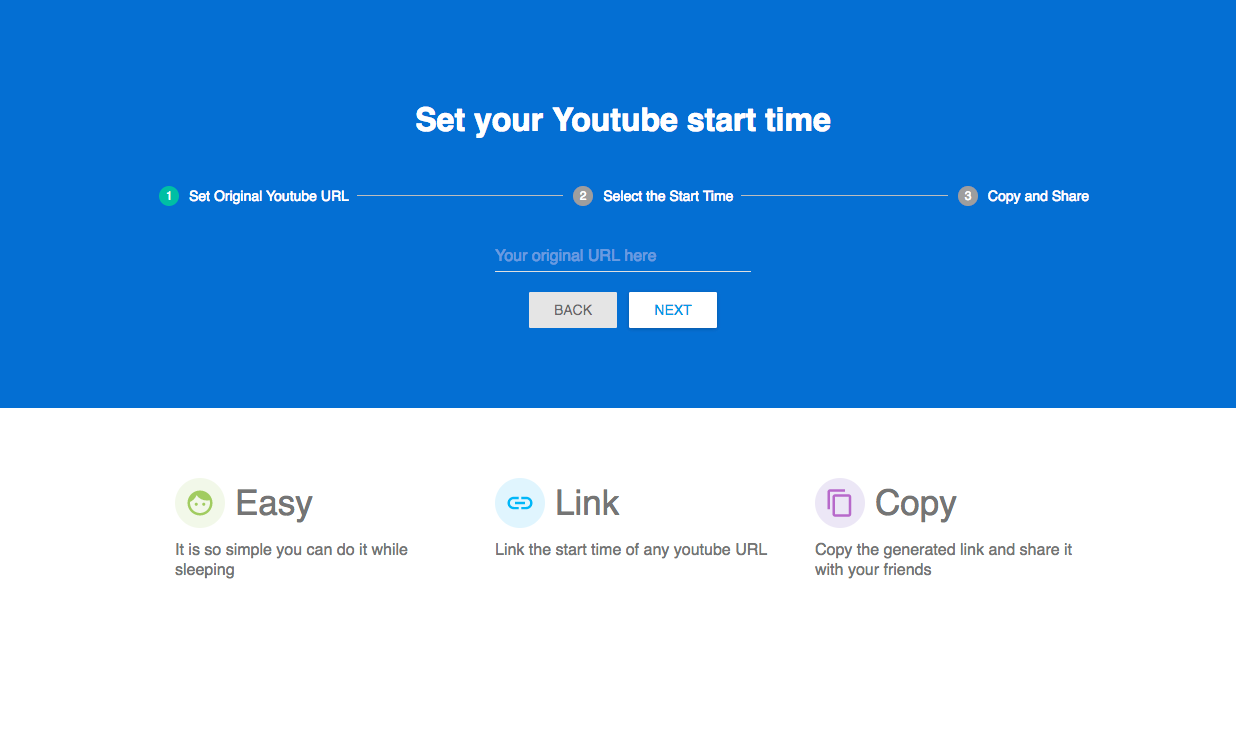
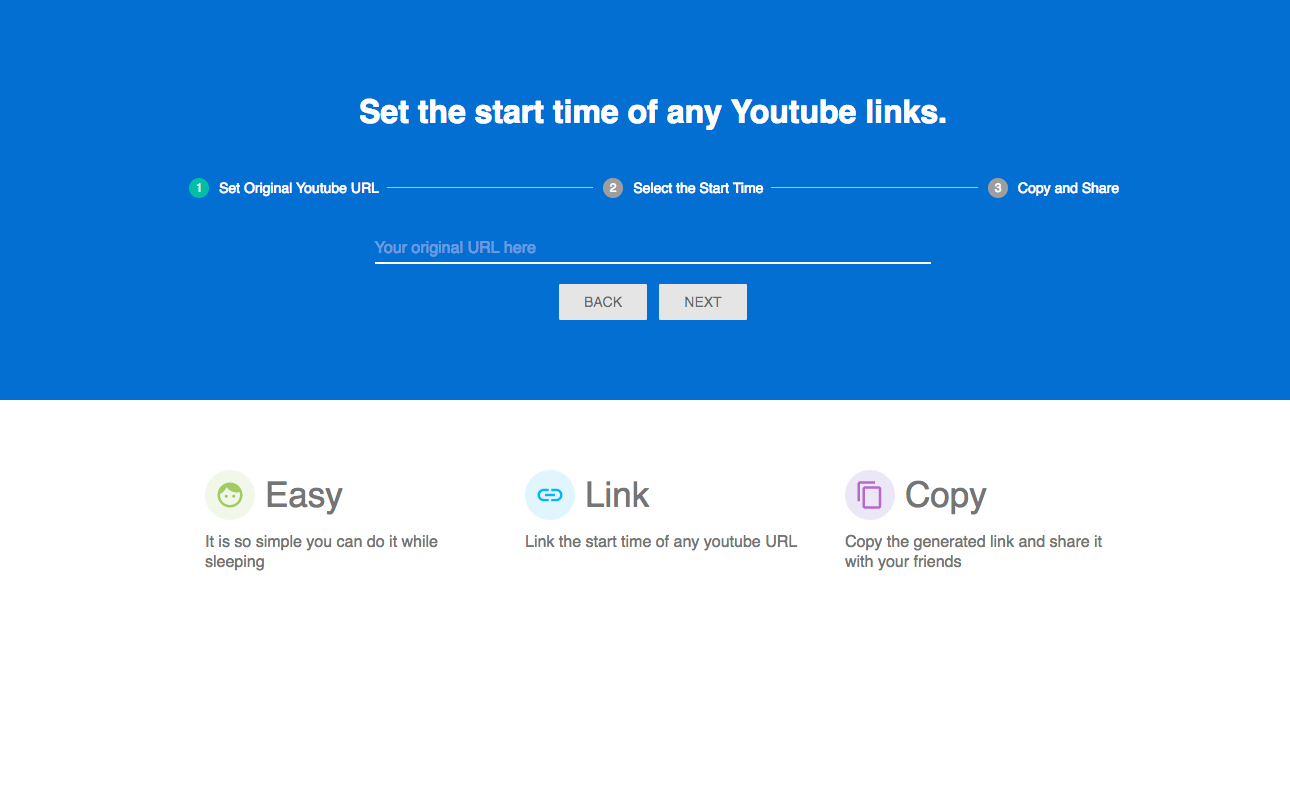
Updated header text.

diff --git a/src/containers/HomePage/HomePage.js b/src/containers/HomePage/HomePage.js
@@ -87,7 +87,7 @@ class HomePage extends Component {
             <div className="HomePage">
                 <div className="container">
                     <div>
-                        <h1>Set your Youtube start time</h1>
+                        <h1>Set the start time of any Youtube links.</h1>
                         <Navigation stepIndex={stepIndex} />
                         <div style={contentStyle}>
                             <div>
